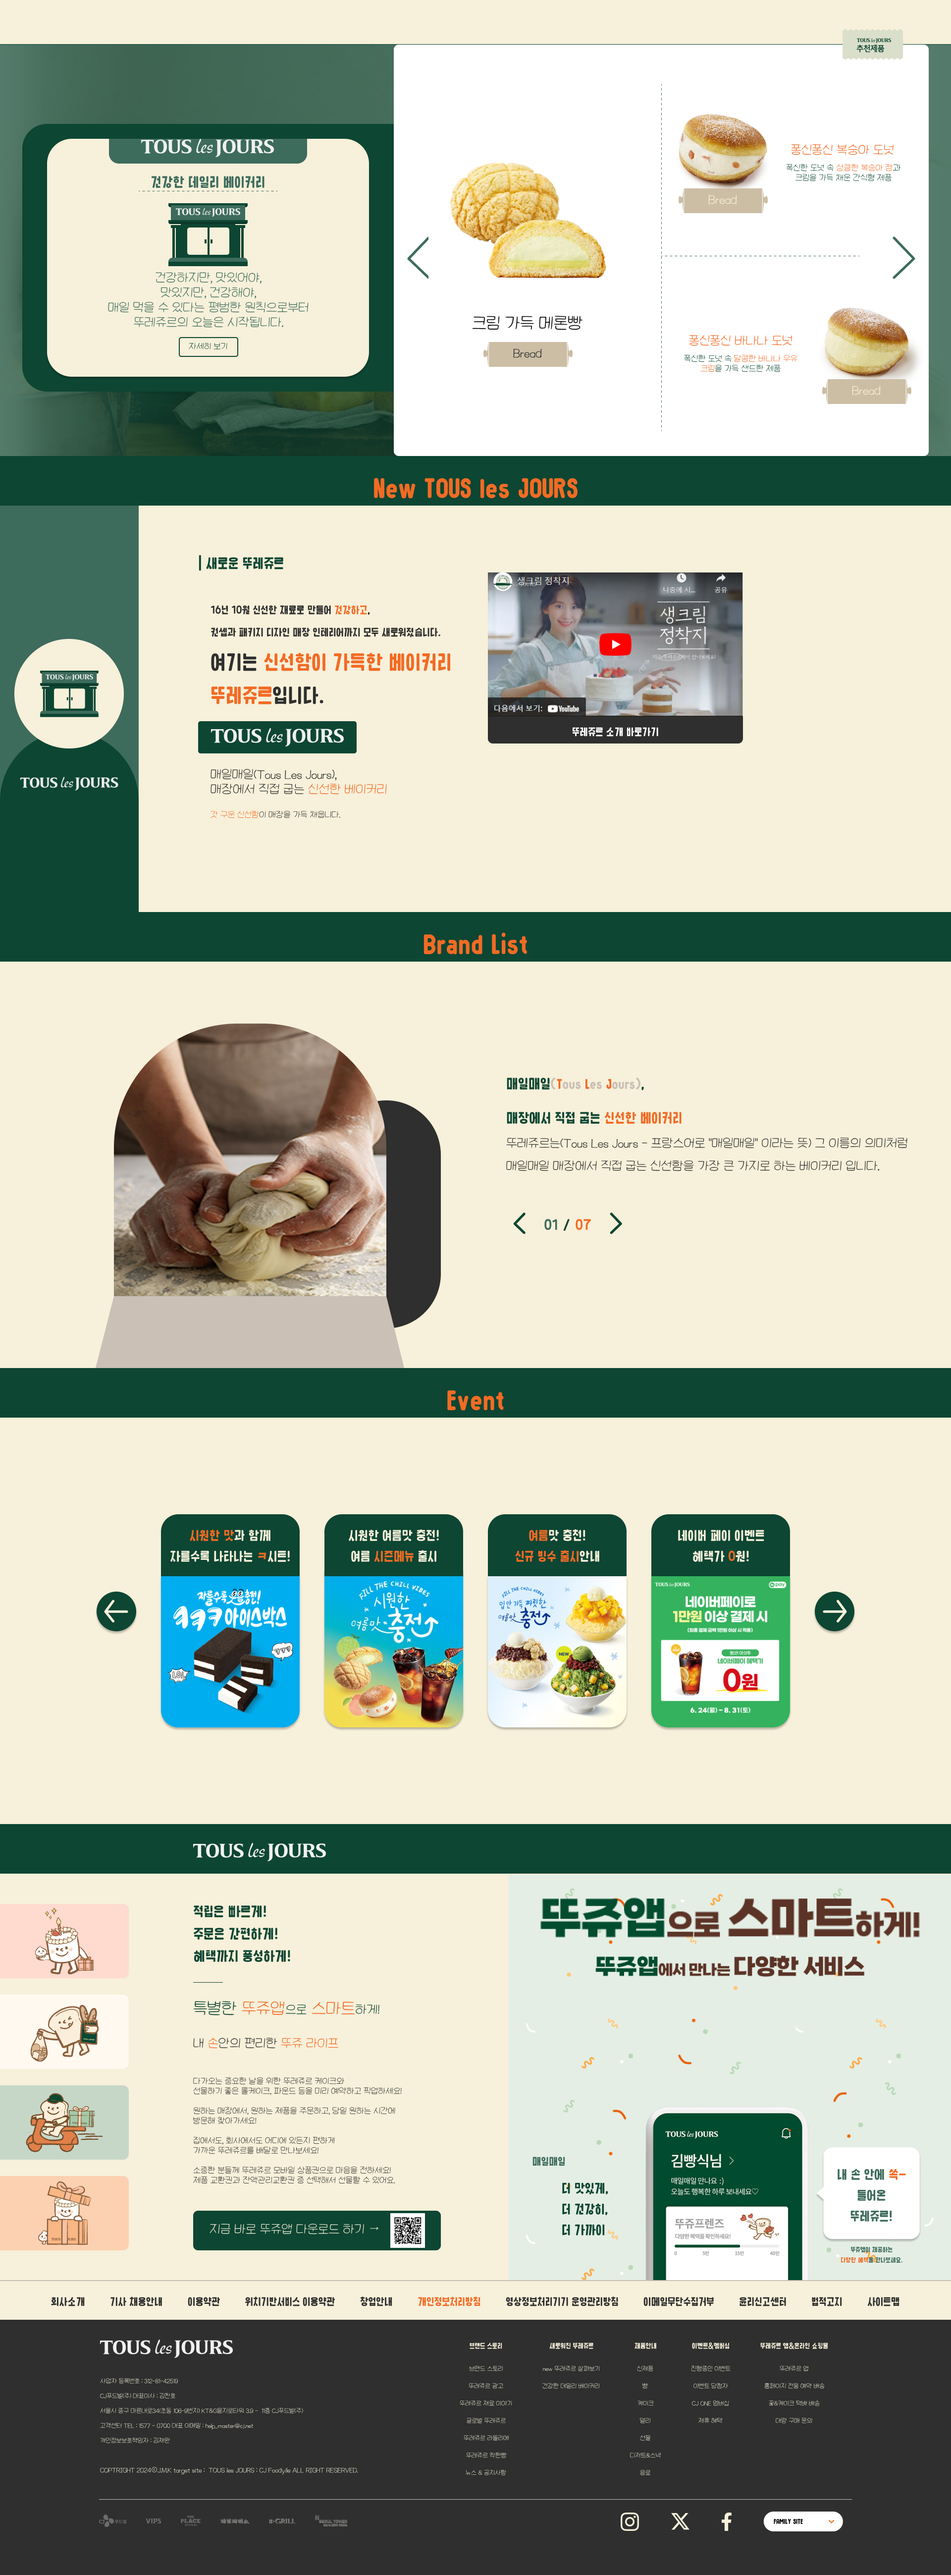
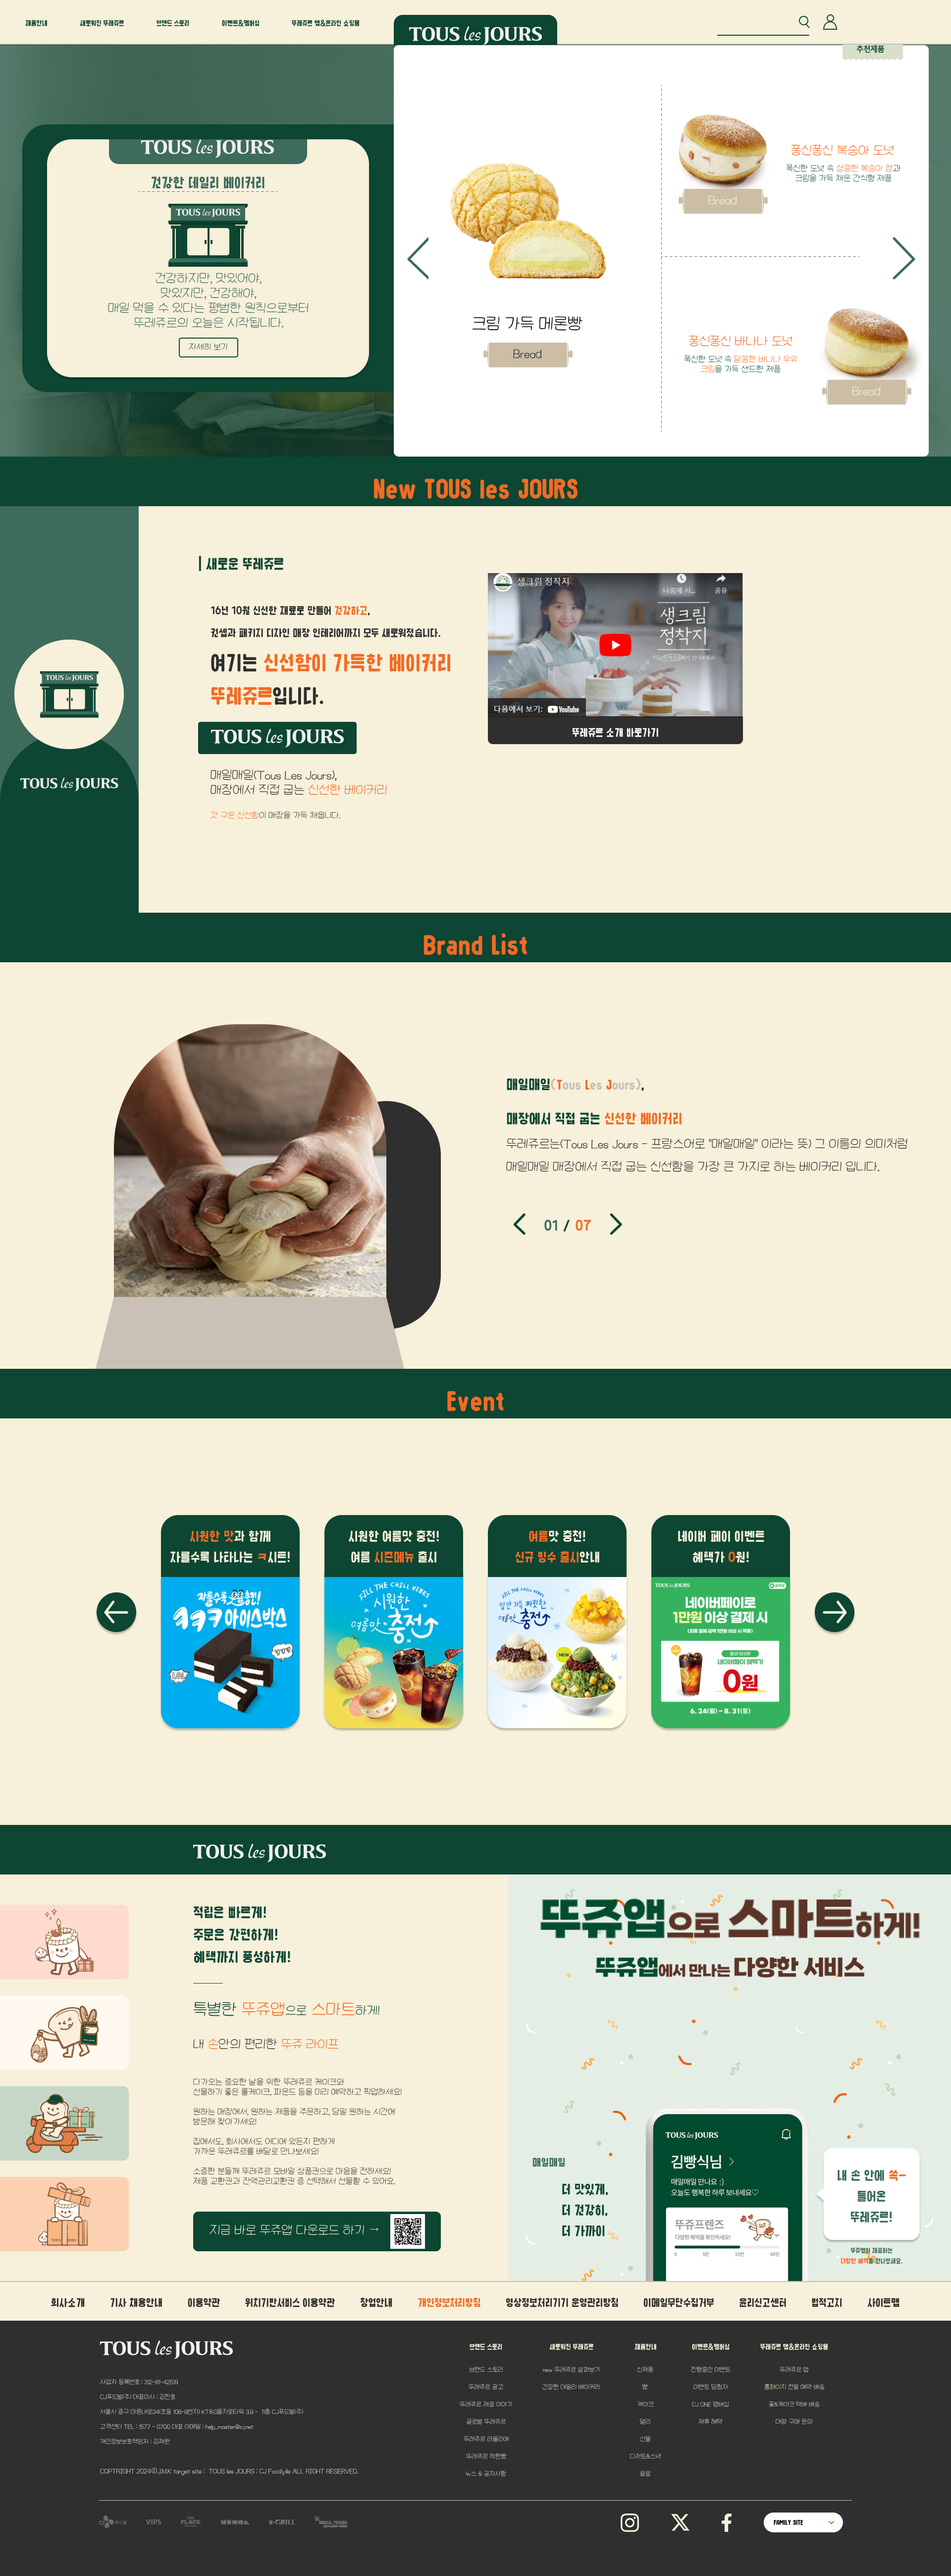
ㅇ
ㅇ

diff --git a/70_pf/TouslesJours/draft.html b/70_pf/TouslesJours/draft.html
@@ -6,31 +6,11 @@
     <meta name="viewport" content="width=device-width, initial-scale=1.0">
     <title>뚜레쥬르-시안</title>
     <style>
-        html {
-            scroll-behavior: smooth;
-        }
-
         body {
             margin: 0 auto;
         }
 
-        .header {
-            position: fixed;
-            top: 0;
-        }
-
-        .panner {
-            position: fixed;
-            top: 30%;
-            right: 30px;
-        }
-
-        .panner>img {
-            border-radius: 5px;
-            box-shadow: 4px 4px 4px rgba(0, 0, 0, 0.5);
-        }
-
-        .sian img {
+        div img {
             width: 100%;
             vertical-align: top;
             margin: 0;
@@ -40,15 +20,7 @@
 
 <body>
 
-    <div class="header">
-        <img src="header_1Depth_sian_1.png" alt="임시헤더">
-    </div>
-
-    <div class="panner">
-        <img src="panner_img.png" alt="패널">
-    </div>
-
-    <div class="sian">
+    <div>
         <img src="draft.png" alt="시안이미지">
     </div>
 

diff --git a/70_pf/TouslesJours/style/layout.css b/70_pf/TouslesJours/style/layout.css
@@ -25,12 +25,20 @@ nav {
 }
 
 .sub {
+    top: 53px;
     position: absolute;
     display: flex;
     align-items: center;
     height: 150px;
     width: 100%;
     background: #0d4633;
+}
+
+
+.sub::before {
+    left: 0;
+    background: #0d4633;
+
 }
 
 .sub li {
